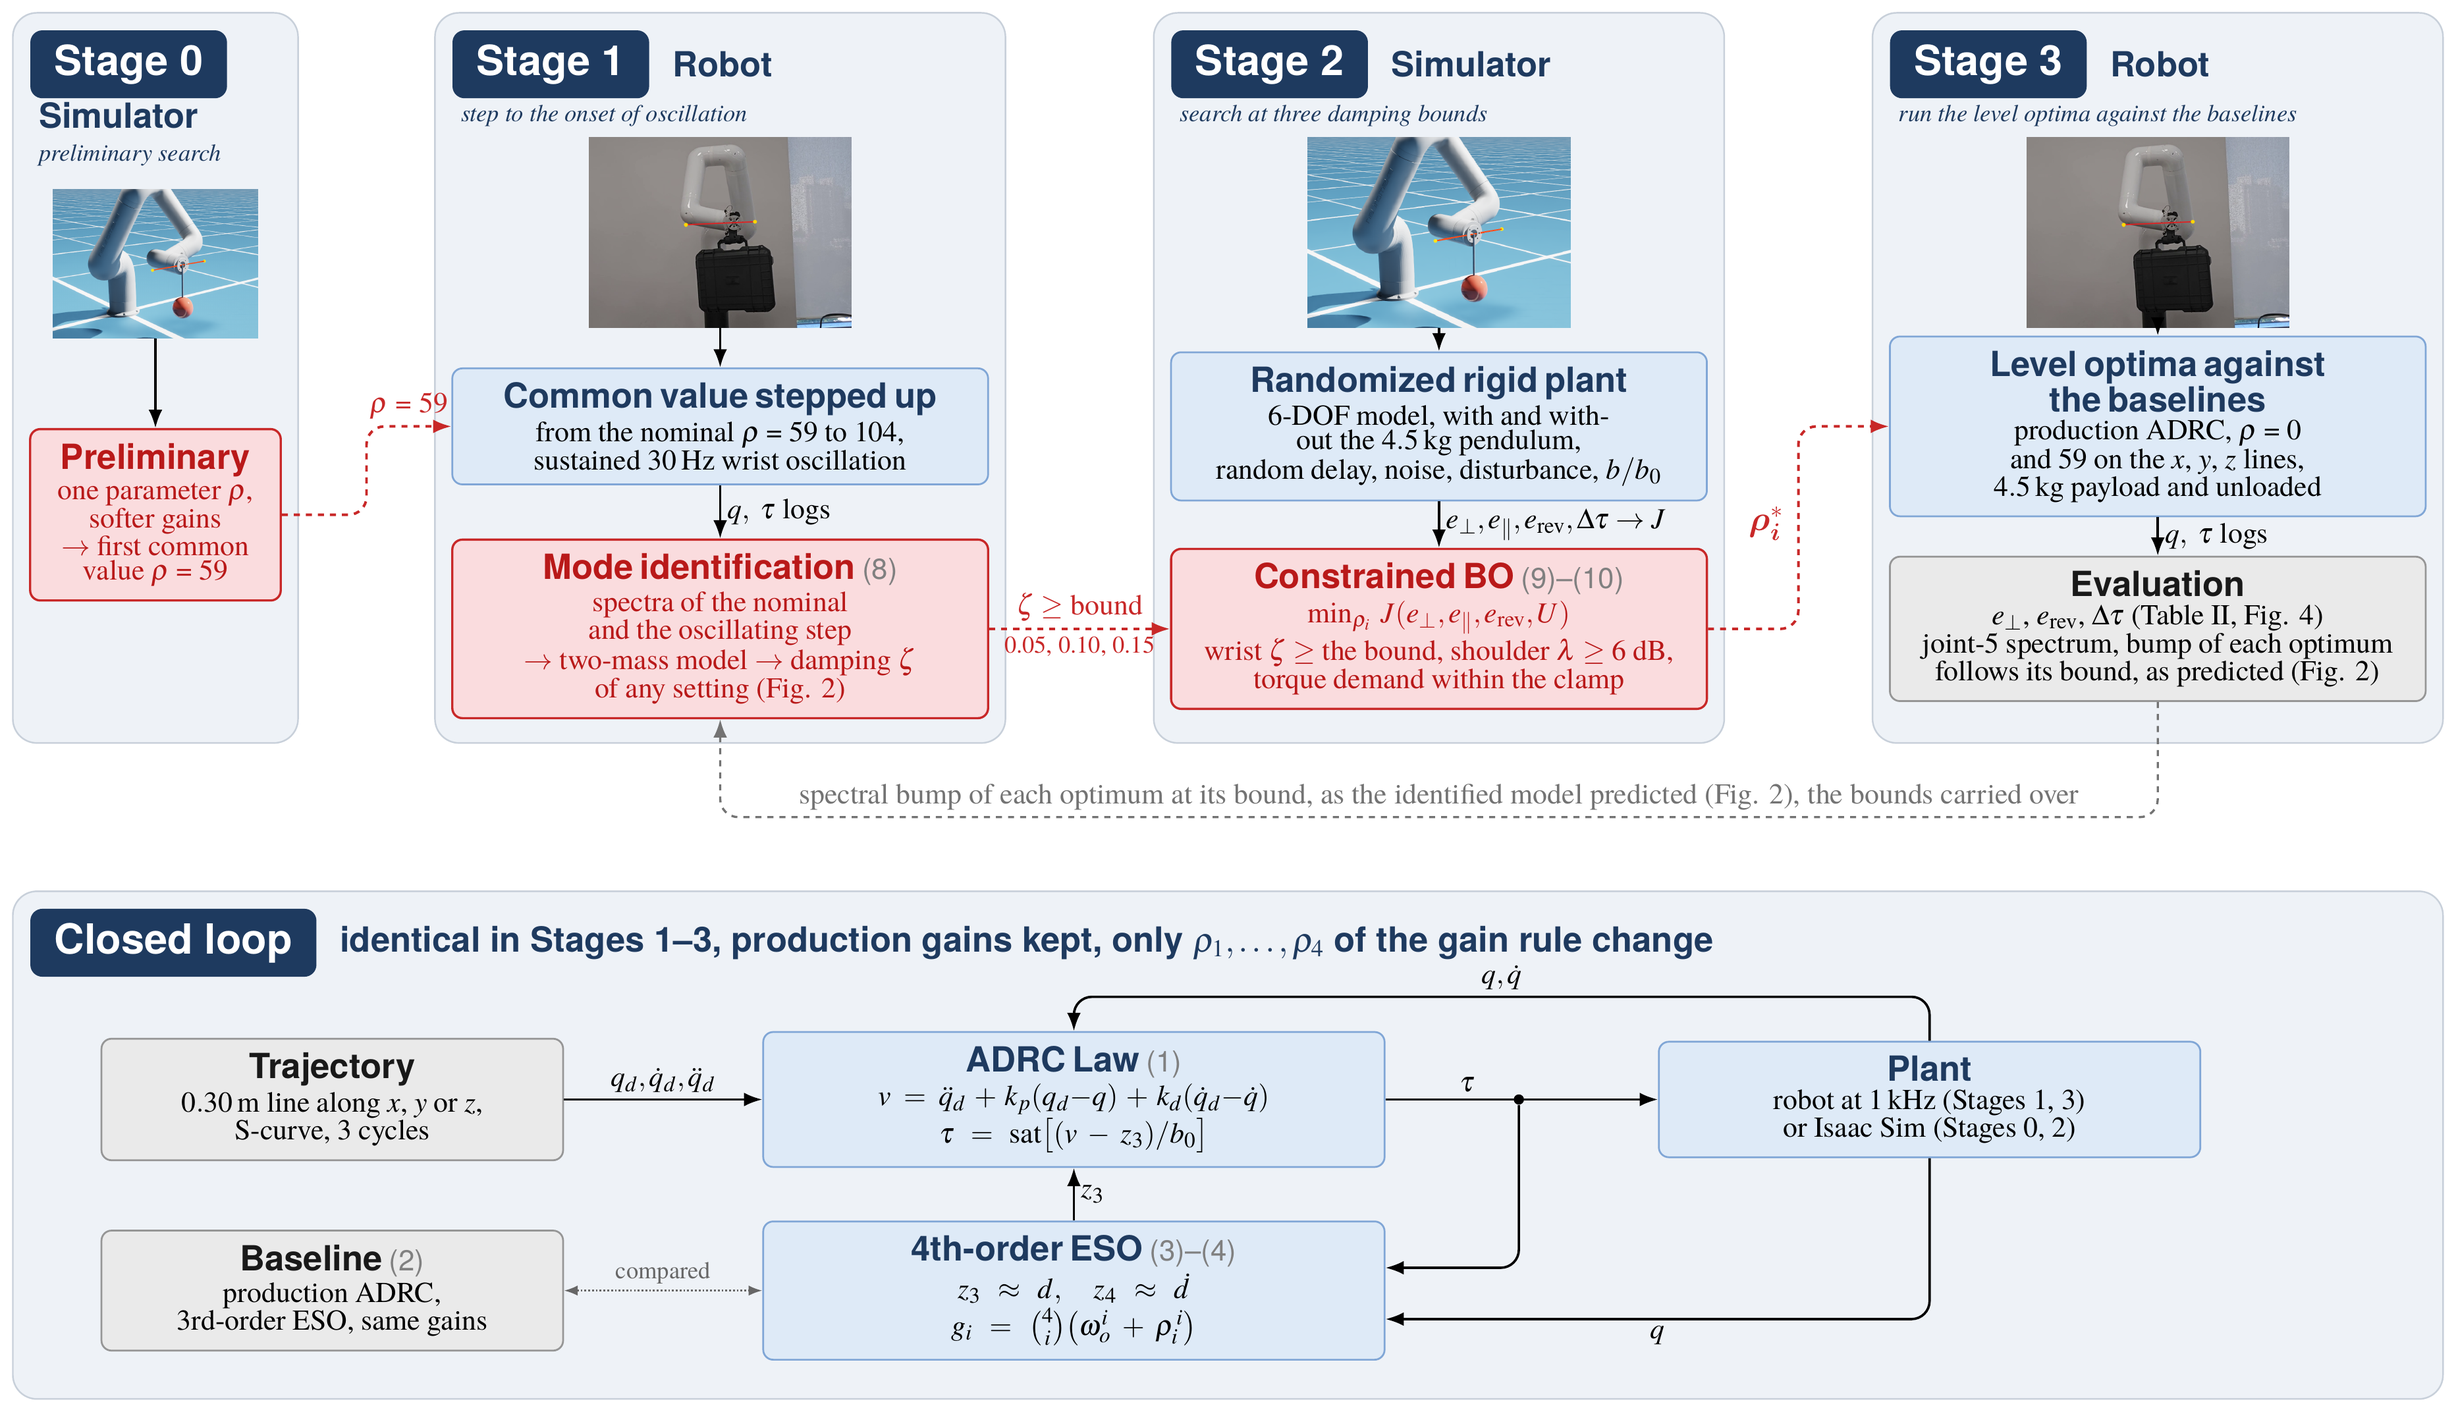
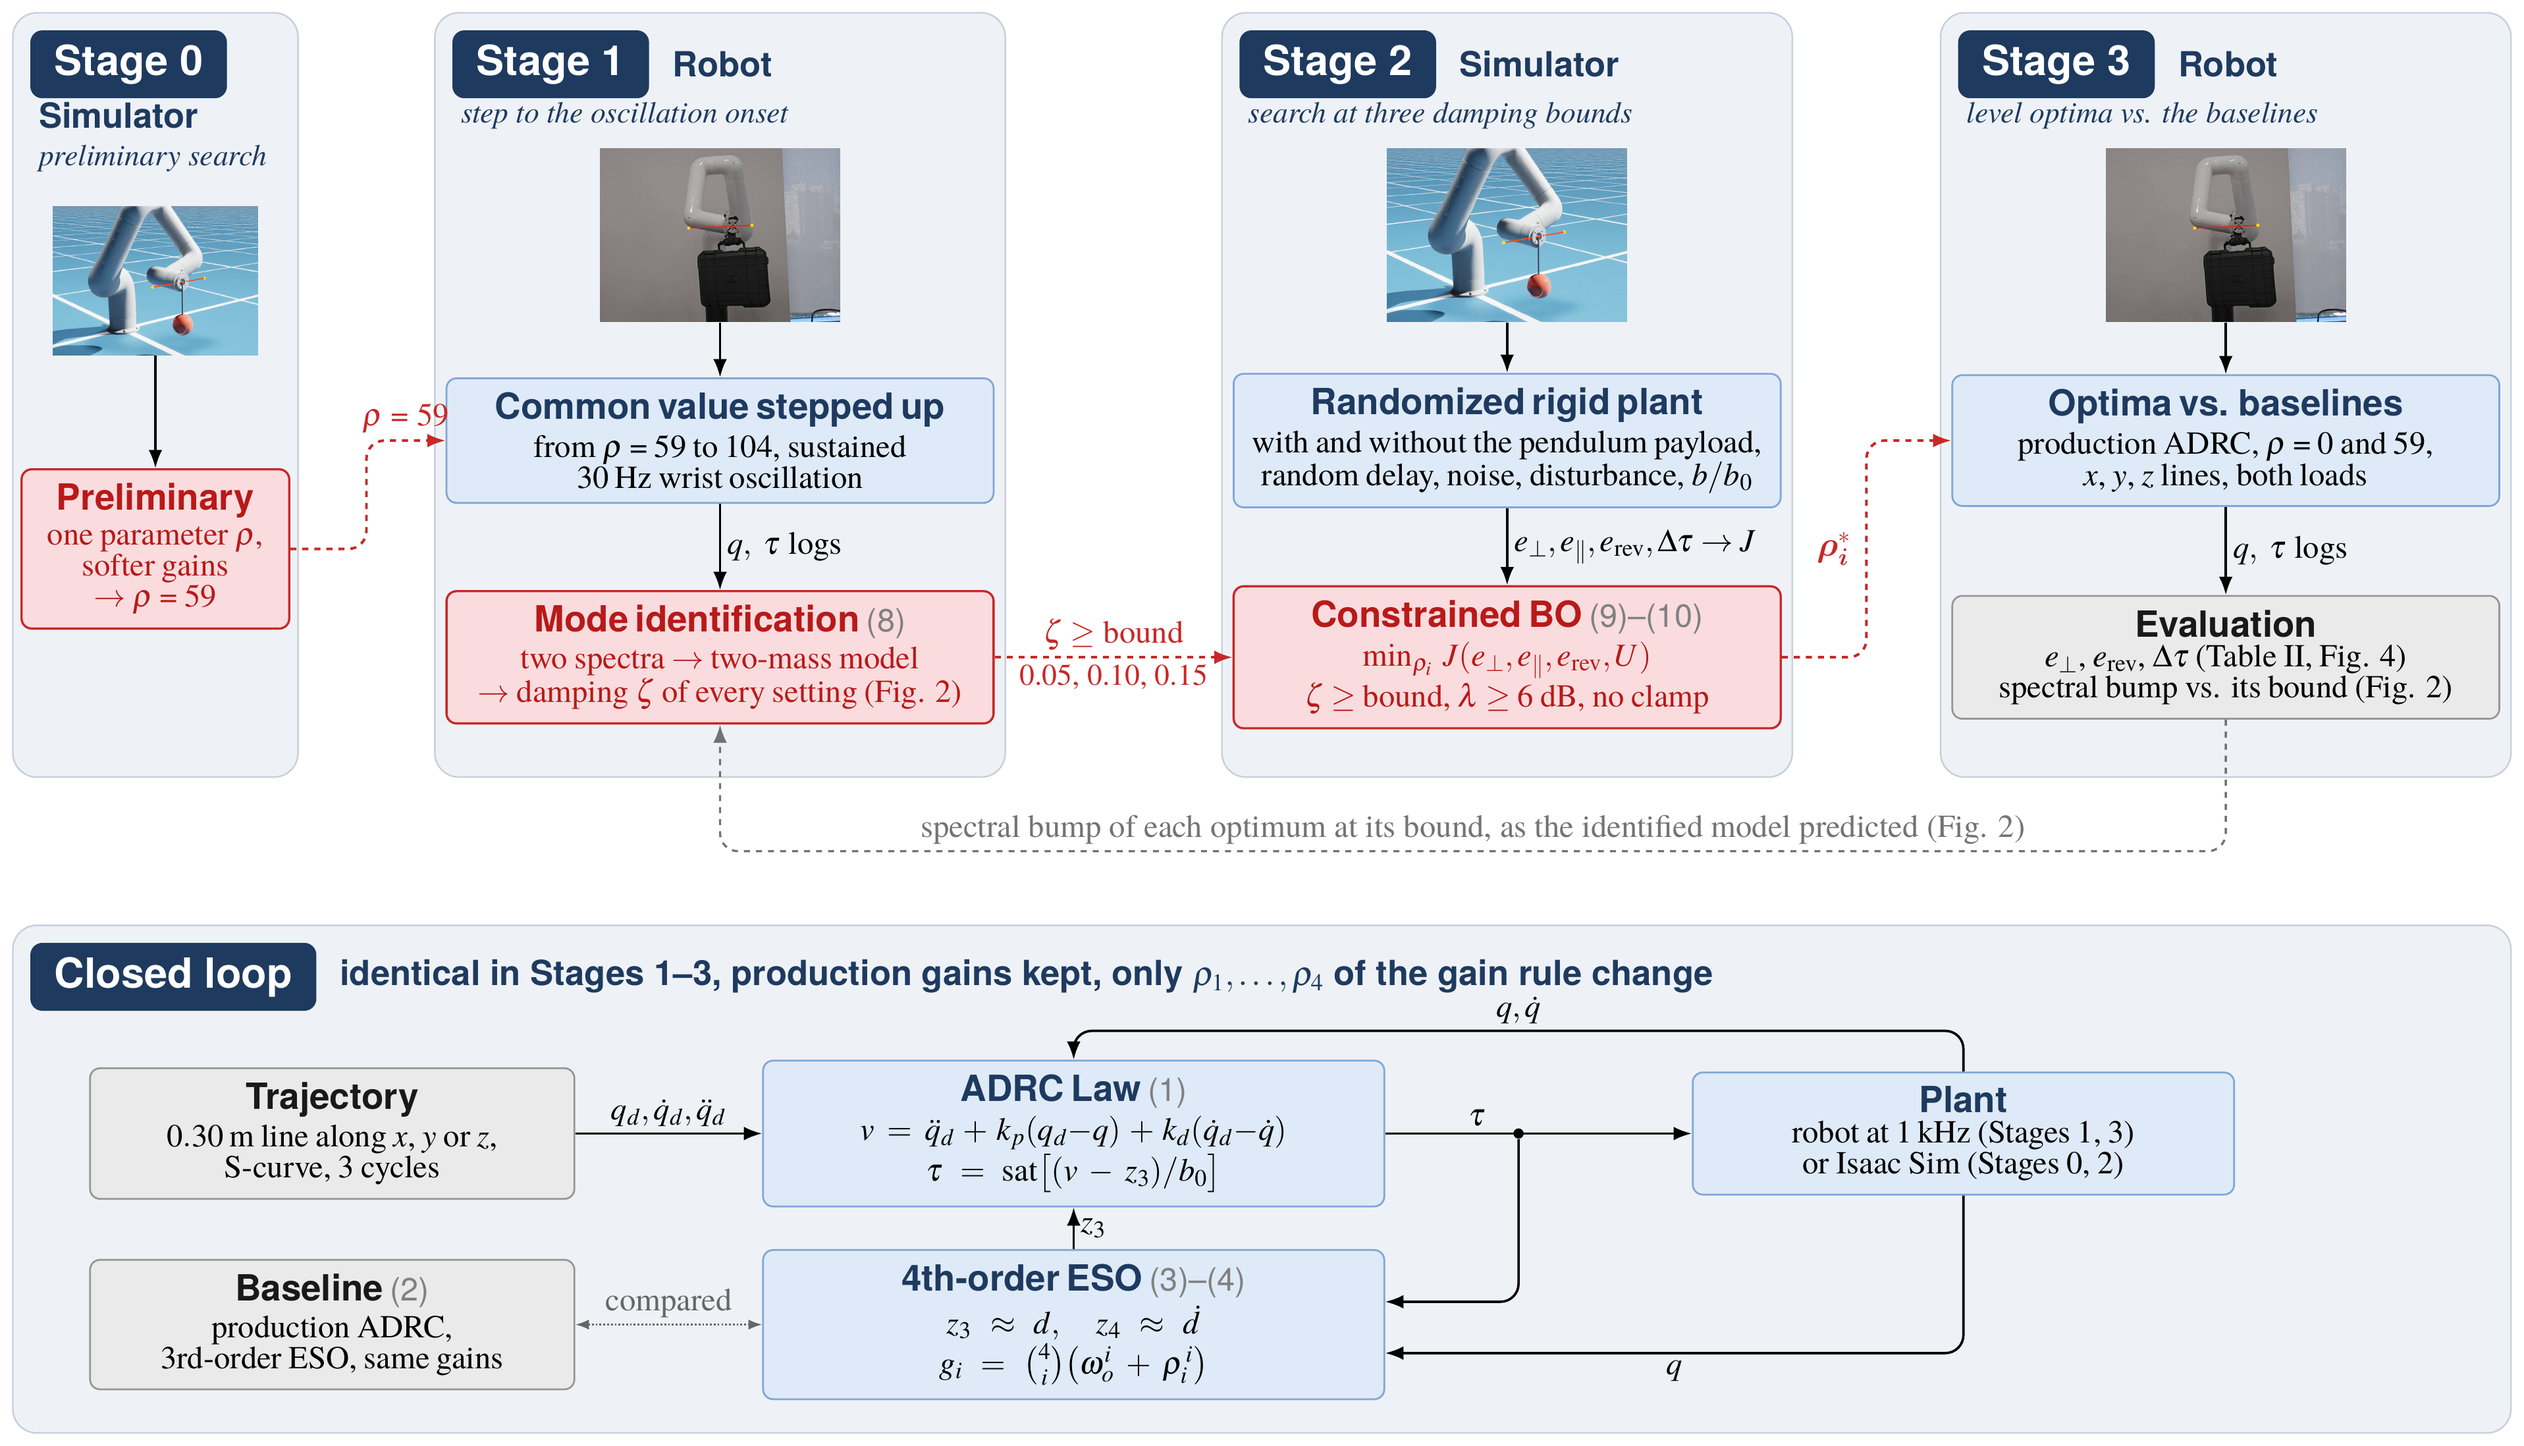
Fig. 1 of the paper redrawn with larger box text
Every box reduced to a title and two lines, text 16 pt on the 43.8 cm
canvas (6.7 pt in print, was 5.7), the bound label given room between
Stages 1 and 2.

diff --git a/index.html b/index.html
@@ -56,7 +56,7 @@
     <section class="page-width section-space" id="method" aria-labelledby="method-title">
       <h2 id="method-title">Method</h2>
       <figure class="method-figure">
-        <img src="assets/fig1_pipeline.png?v=20261111" alt="Study design in four stages. A preliminary simulator search gives the nominal common value, the robot steps it up to the onset of wrist oscillation and fits a two-mass loop model, constrained Bayesian optimization searches at three levels of the damping bound in the simulator, and the optimum of each level runs on the robot against the production ADRC, the binomial observer and the nominal value. The same closed loop with the production gains runs in every stage.">
+        <img src="assets/fig1_pipeline.png?v=20261113" alt="Study design in four stages. A preliminary simulator search gives the nominal common value, the robot steps it up to the onset of wrist oscillation and fits a two-mass loop model, constrained Bayesian optimization searches at three levels of the damping bound in the simulator, and the optimum of each level runs on the robot against the production ADRC, the binomial observer and the nominal value. The same closed loop with the production gains runs in every stage.">
       </figure>
       <p class="method-overview">Simulator to robot to simulator to robot. <strong>Stage 0.</strong> A preliminary one-parameter search in the simulator with softer gains gave the nominal common value, ρ = 59. <strong>Stage 1.</strong> The common value is stepped up on the Indy7 with the production gains to the onset of sustained wrist oscillation, at ρ = 104, 1.8 times the nominal value, the wrist oscillates at 30 Hz. The joint-5 torque spectra of the nominal and the oscillating run fit a two-mass loop model of the compliant wrist, whose damping is carried to the simulator as the bound of the search. <strong>Stage 2.</strong> Constrained Bayesian optimization tunes the four parameters on a randomized simulated manipulator, with and without the 4.5 kg pendulum payload, under a torque-demand constraint, among the settings whose predicted wrist damping is at least the bound, at three levels of the bound, 0.15, 0.10 and 0.05. <strong>Stage 3.</strong> The optimum of each level runs on the robot against the production ADRC, the binomial observer and the nominal value, and their spectral bumps, in the order of their bounds as predicted, close the loop.</p>
       <div class="method-contributions">
